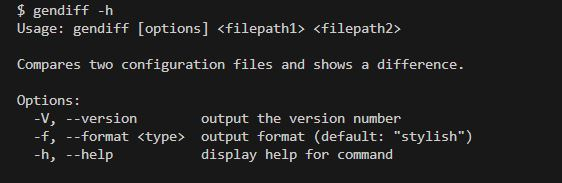
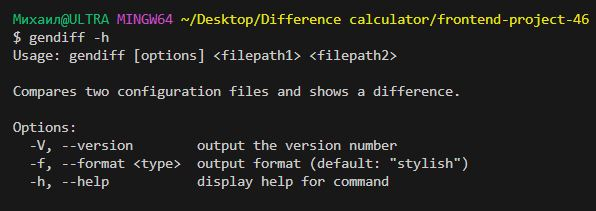
Step 9. Fix Readme

Changed region(s): [[0.0, 0.0273, 0.9982, 0.4645], [0.0, 0.5191, 0.847, 0.9016]]

diff --git a/README.md b/README.md
@@ -45,5 +45,46 @@ npm link
 gendiff -h
 ```
 
-> <br>
-> ![Запуск команды gendiff -h](/demo/Picture1.JPG)
+> ![Running gendiff -h](/demo/Picture1.jpg)
+
+### Examples of work:
+
+1. An example of working with flat JSON files:
+
+```
+gendiff flatFile1.json flatFile2.json
+```
+
+> ![Running gendiff flatFile1.json flatFile2.json](/demo/Picture2.jpg)
+
+2. An example of working with flat YAML, YML files:
+
+```
+gendiff file1.yml file2.yml
+```
+
+> ![Running gendiff file1.yml file2.yml](/demo/Picture3.jpg)
+
+3. An example of working with nested objects:
+
+```
+gendiff file1.json file2.json
+```
+
+> ![Running gendiff file1.json file2.json](/demo/Picture4.jpg)
+
+4. An example of how the Plain format works:
+
+```
+gendiff -f plain file1.json file2.json
+```
+
+> ![Running gendiff -f plain file1.json file2.json](/demo/Picture5.jpg)
+
+5. An example of how the JSON format works:
+
+```
+gendiff -f json file1.json file2.json
+```
+
+> ![Running gendiff -f json file1.json file2.json](/demo/Picture6.jpg)
